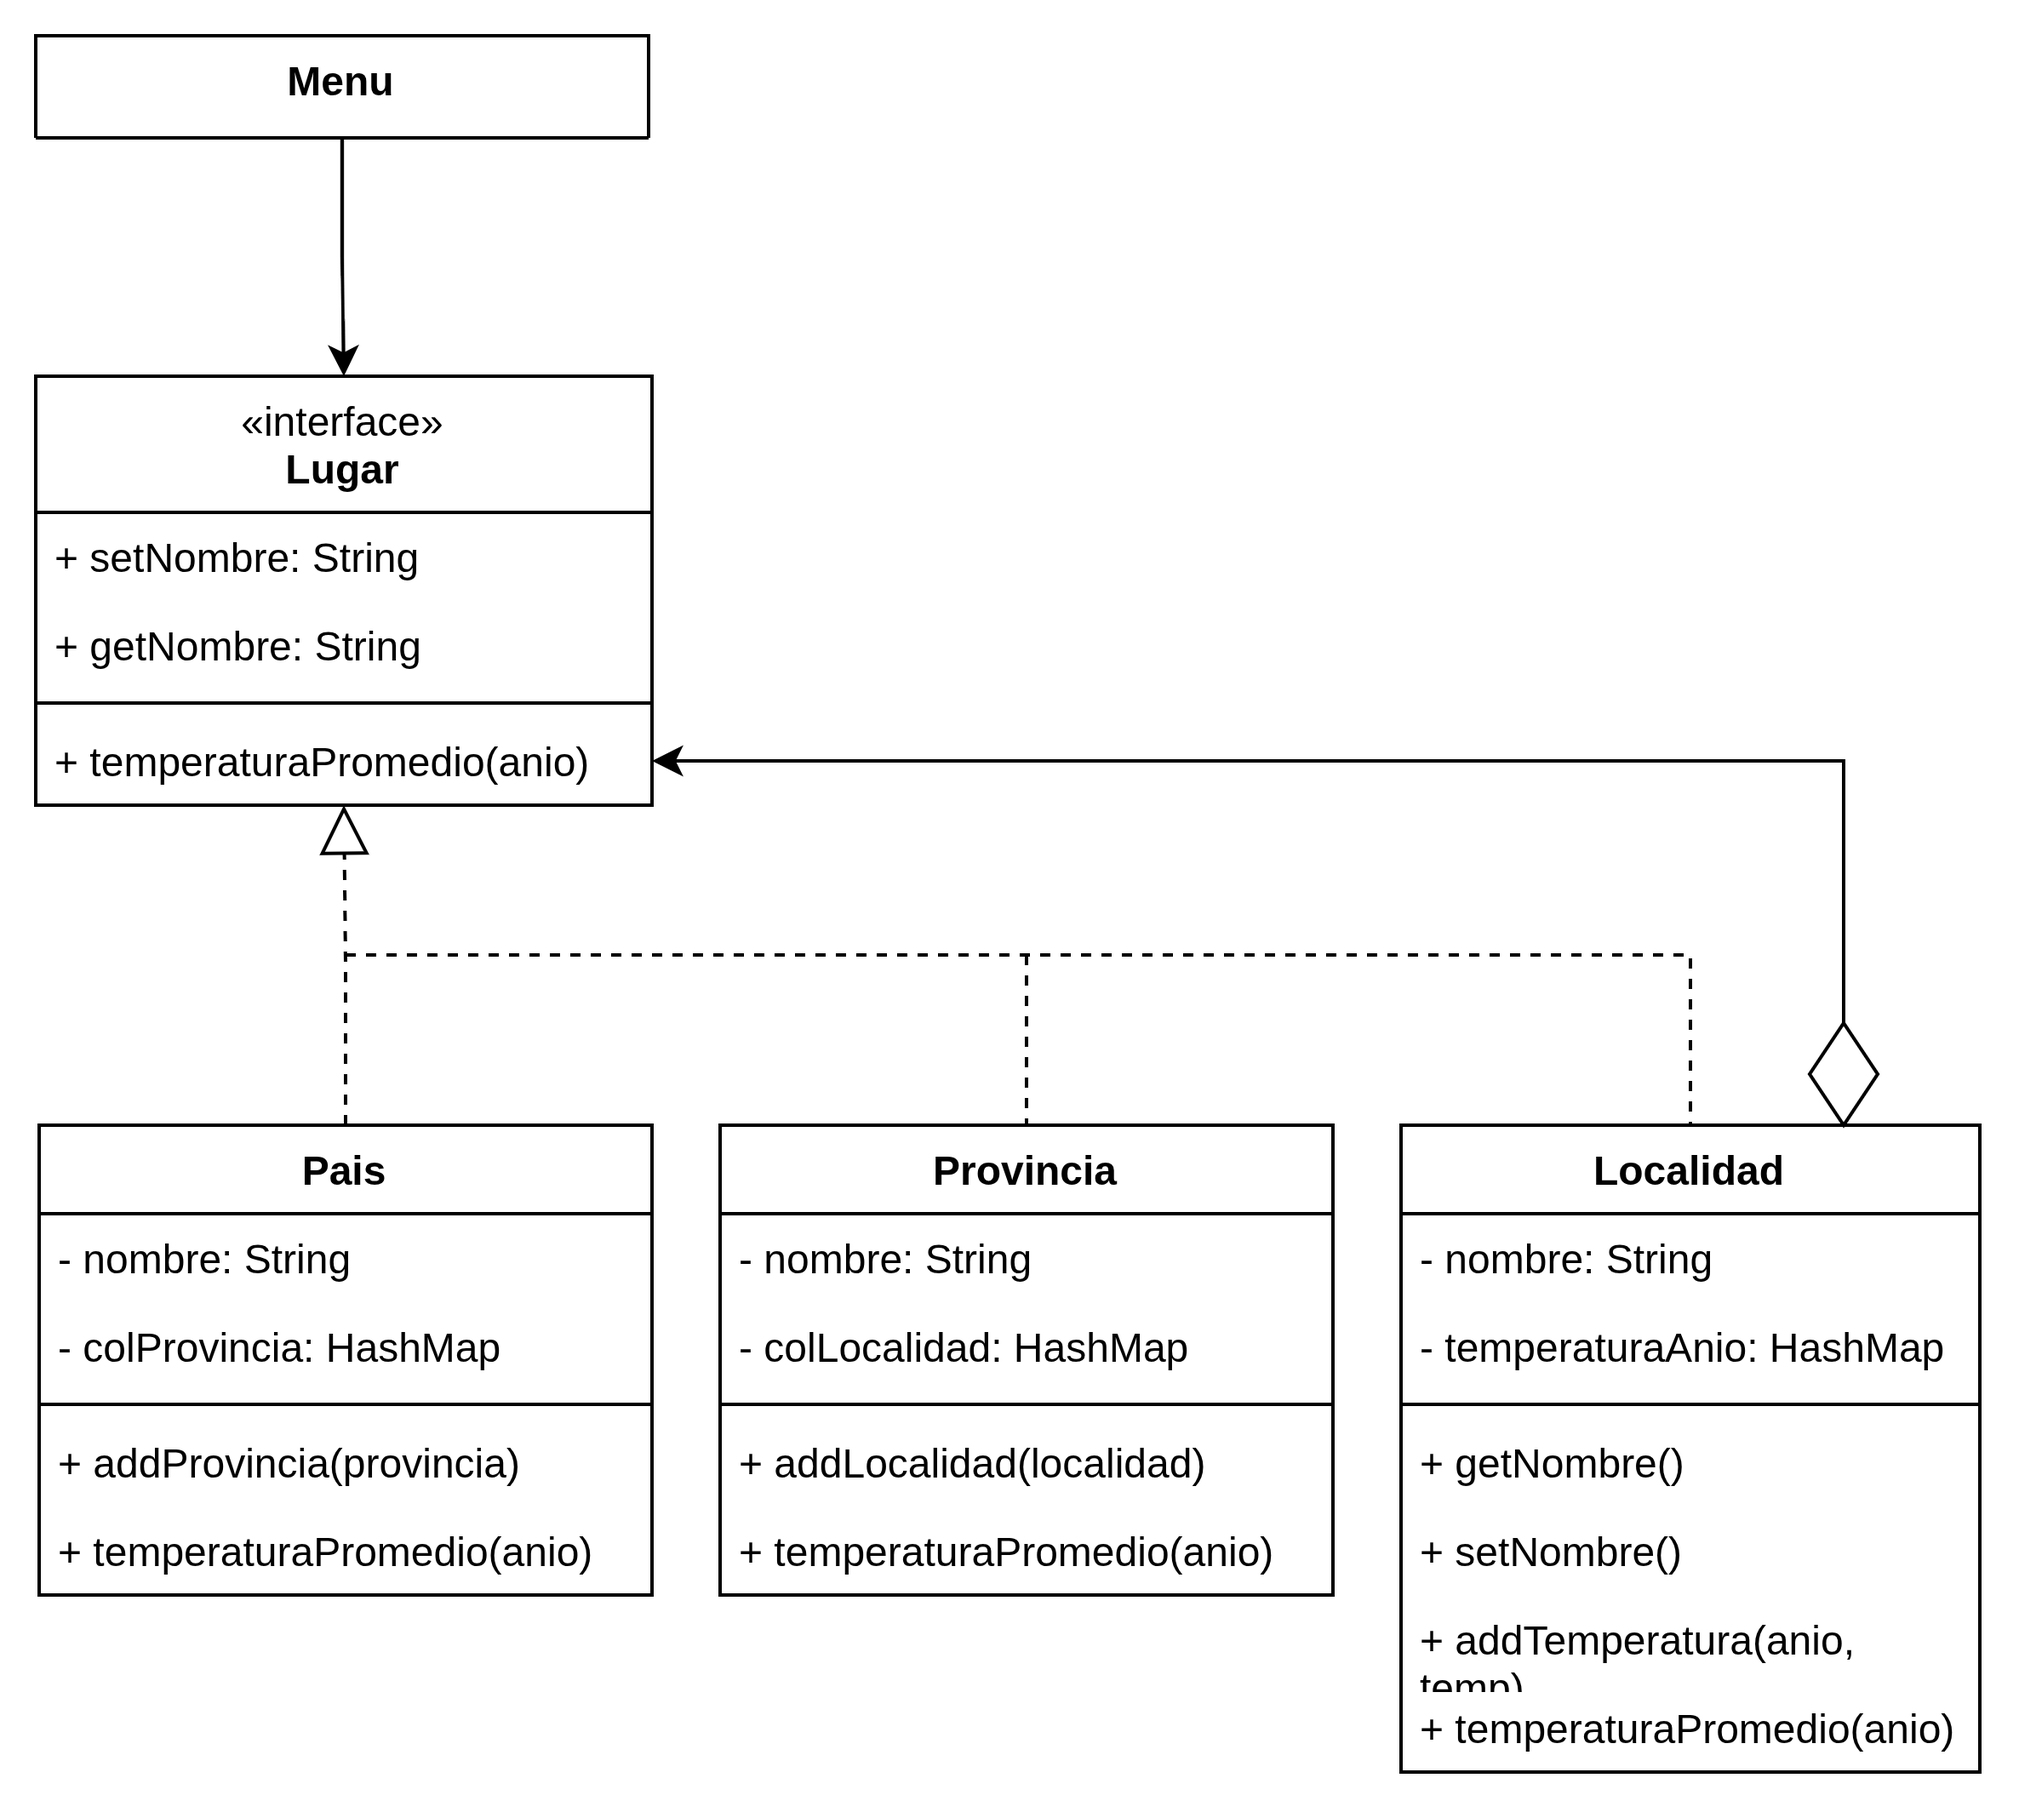
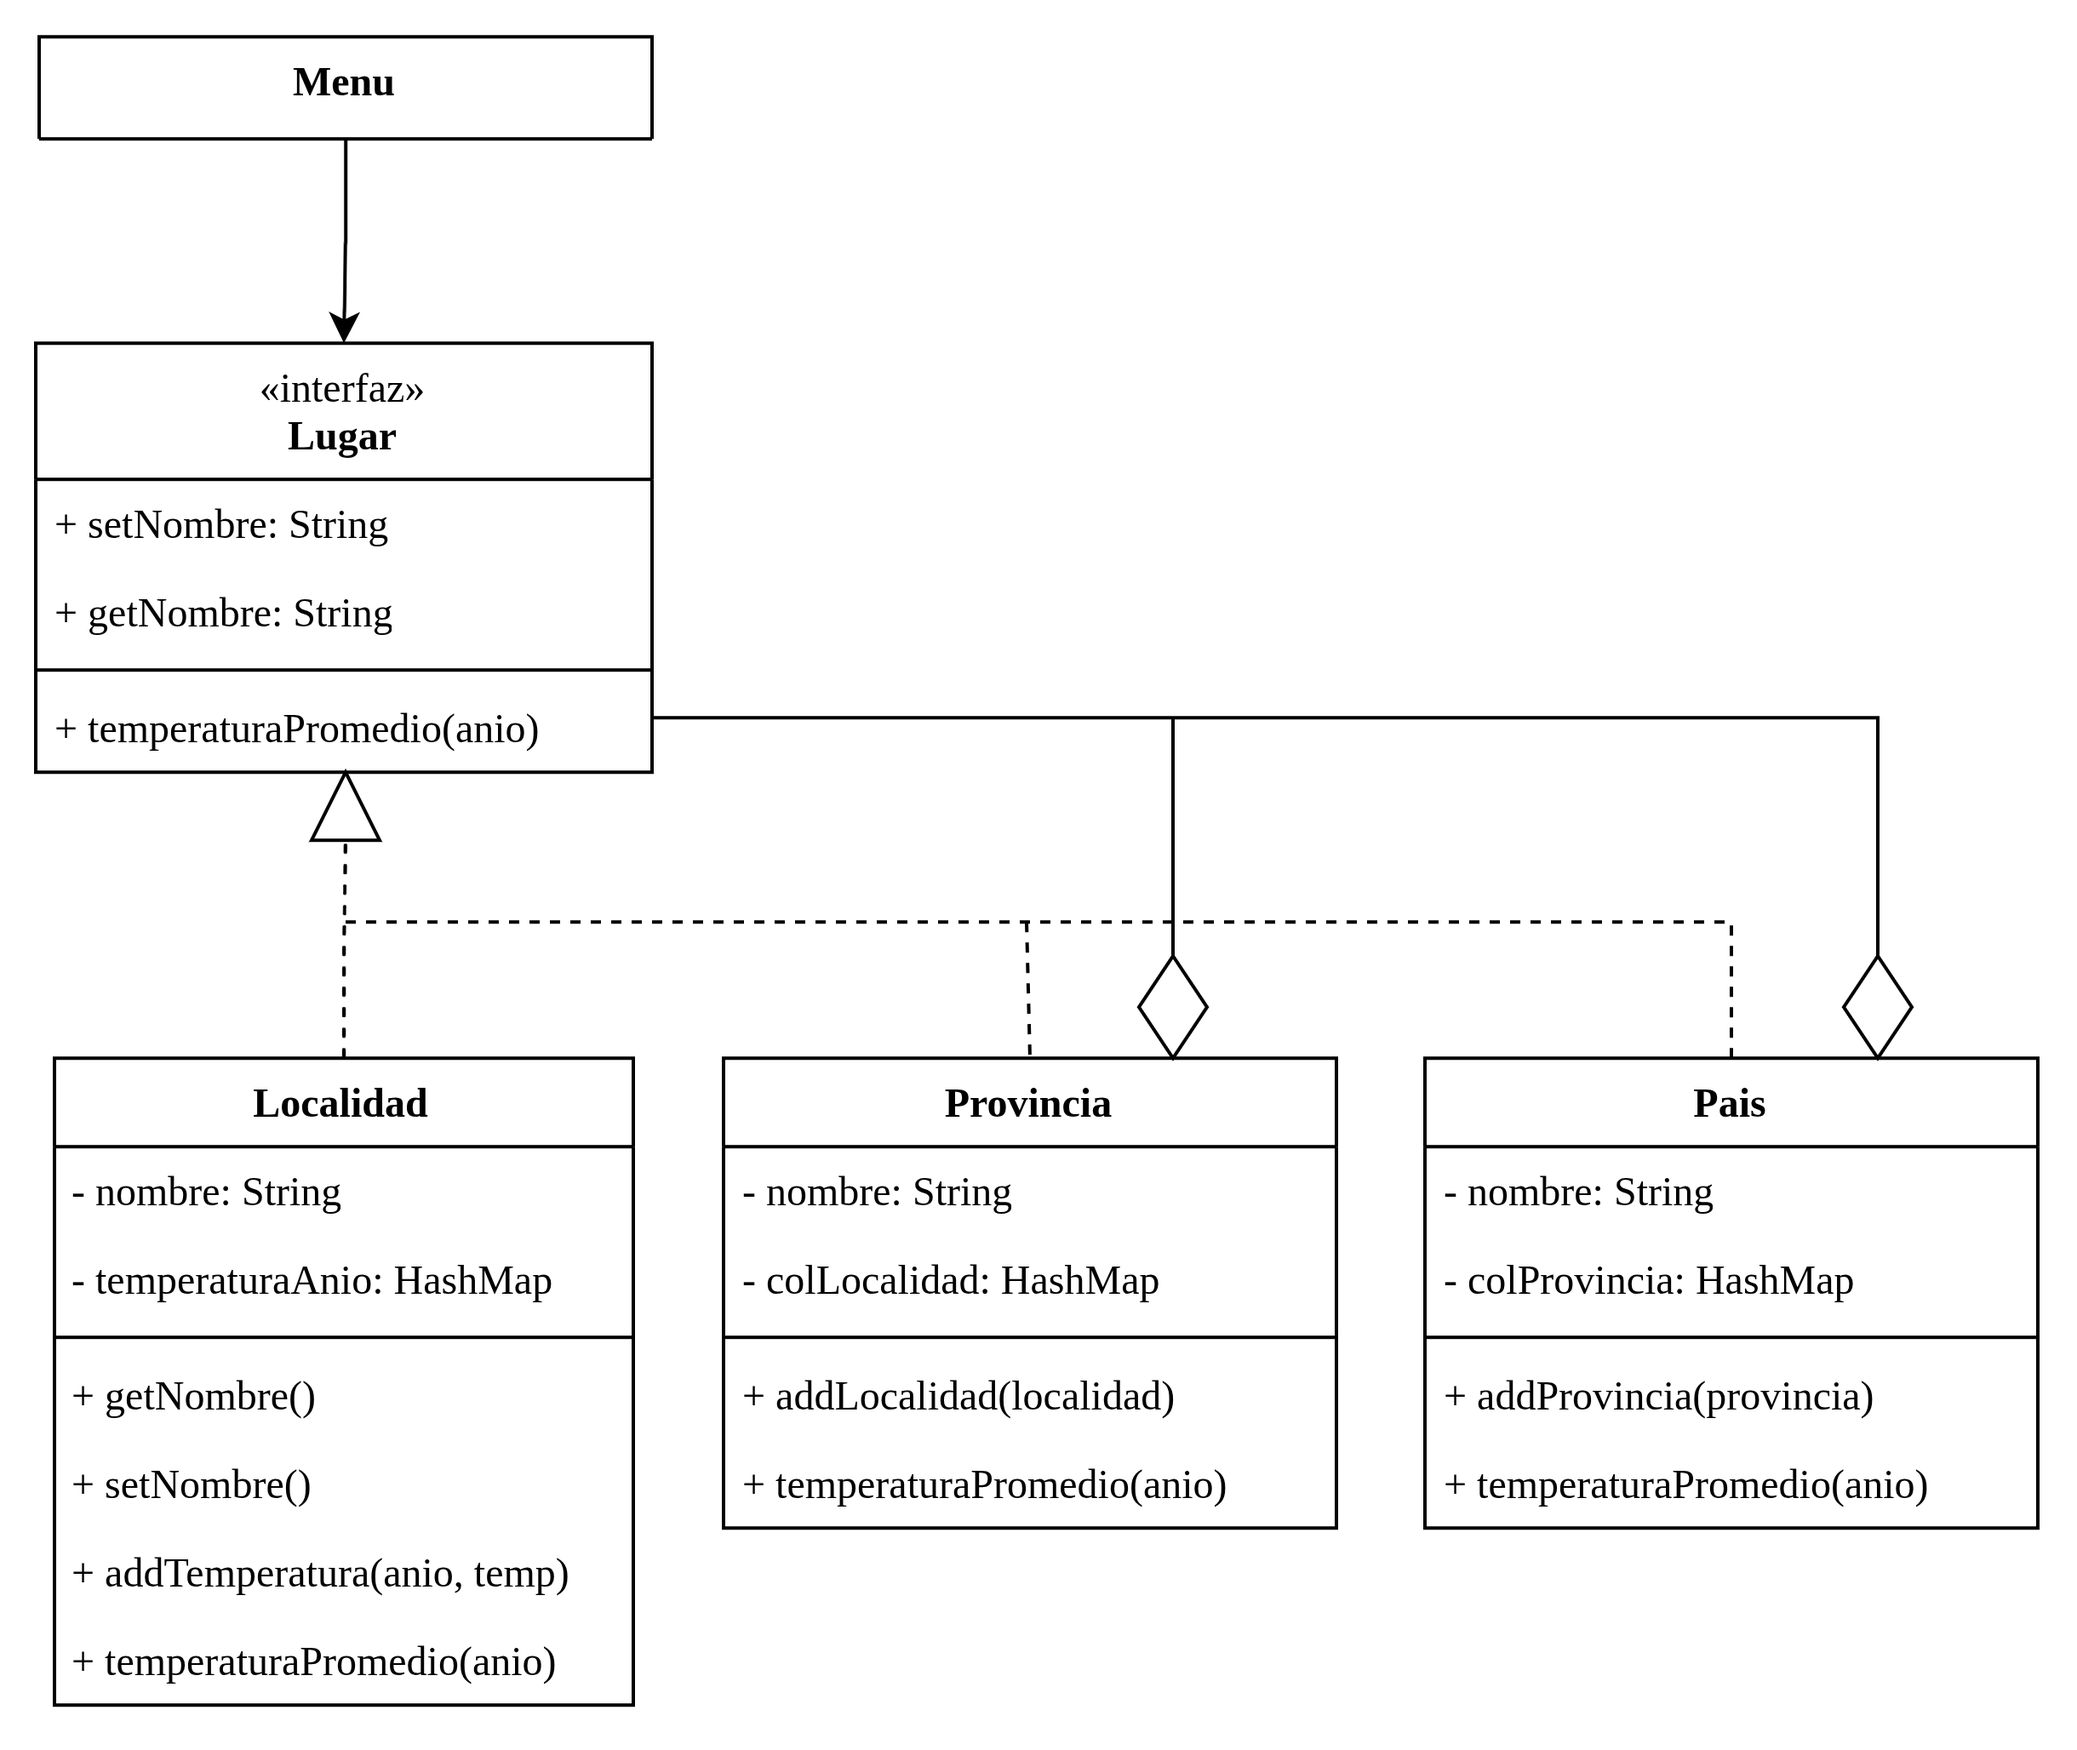
feat: casi terminando el informe

diff --git a/docs/informe/TPO 1 - Grupo 14.tex b/docs/informe/TPO 1 - Grupo 14.tex
@@ -41,32 +41,30 @@ El motivo principal para usar el Patrón Composite es que la estructura del
 dominio se representa mediante la forma de un árbol.
 
 Supongamos que el objetivo es calcular la temperatura promedio de un país. Este
-se compone de provincias, que a su vez contienen localidades, las cuales
+se compone de provincias, que a su vez contiene localidades, las cuales
 registran las temperaturas promedio anuales entre 2021 y 2026. Es decir, el país
 abarca provincias, las provincias abarcan localidades y las localidades guardan
-el historial de temperaturas.
+un historial de temperaturas.
 
 Ahora bien, supongamos que queremos desarrollar un sistema capaz de calcular la
-temperatura promedio de un año específico, ya sea para una provincia particular
+temperatura promedio de un año específico, ya sea para una provincia particular,
 o para un país entero.
 
 ¿De qué manera podríamos resolver este problema?
 
-\begin{figure}[h] \includegraphics[width=\textwidth]{treedark.png}
+\begin{figure}[h] \includegraphics[width=\textwidth]{arbol2.png}
 
 \end{figure}
 
 Podemos intentar la solución directa, fijarnos las localidades de cada provincia
-del país, repasar cada una de las temperaturas para un año determinado y
+del país, obtener cada una de las temperaturas para un año determinado y
 calcular el promedio total. En la vida real esto suena sencillo, pero en un
-programa no es tan simple como usar un solo bucle. Necesitaríamos conocer con
+programa no es tan simple como usar un único bucle. Necesitaríamos conocer con
 anticipación las clases Provincia y Localidad a iterar, el nivel de anidación
 que tienen y otros detalles. Todo esto hace que la opción directa se vuelva
-demasiado compleja.
-
+muy compleja de desarrollar.
 
 \subsection{Solución}
-
 
 El patrón Composite sugiere que trabajemos con Localidades, Provincias y el País a
 través de una interfaz común que declara un método para calcular la temperatura
@@ -75,21 +73,20 @@ total.
 ¿Cómo funcionaría este método? Para una localidad, sencillamente devuelve la
 temperatura promedio de la zona. Para una provincia, recorre cada localidad que
 abarca, pregunta su temperatura y devuelve la temperatura promedio anual de la
-provincia. Así hasta que se calcule el promedio anual de todas las provincias
-del país. Una provincia podría incluso añadir temperaturas adicionales a las
-temperaturas por localidad, como temperaturas.
+provincia. Así hasta calcular el promedio anual de todas las provincias del
+país. Una provincia podría incluso añadir temperaturas adicionales a las
+temperaturas por localidad como, por ejemplo, temperaturas de zonas que no sean
+localidades.
 
 El patrón Composite propone tratar a las Localidades, Provincias y al País
-mediante una interfaz común que declare un método para calcular la temperatura
-promedio.
+mediante una interfaz común que declare uno o varios métodos para calcular la
+temperatura promedio.
 
-¿Cómo funciona este método? En el caso de una localidad, simplemente devuelve
+¿Cómo funcionan estos método? En el caso de una localidad, simplemente devuelve
 una temperatura promedio anual de su registro. En una provincia, el método
 recorre cada localidad que la integra, consulta sus temperaturas y calcula el
 promedio anual de la provincia. El proceso se repite del mismo modo para el
-país, promediando los valores de todas sus provincias. Incluso, una provincia
-podría incorporar datos adicionales antes de devolver el resultado final, como
-mediciones de estaciones meteorológicas propias.
+país, promediando los valores de todas sus provincias.
 
 La gran ventaja de esta solución es que no hay que preocuparse por las clases
 concretas de los objetos que componen el árbol. No hay que saber si un objeto es
@@ -97,8 +94,70 @@ una localidad simple o una sofisticada provincia. Podemos tratar a todos los
 objetos por igual a través de una interfaz común. Cuando invocas un método, los
 propios objetos pasan la solicitud a lo largo del árbol.
 
+\subsection{Estructura}
+
 \begin{figure}[h] \includegraphics[width=\textwidth]{uml.png}
 
 \end{figure}
+
+La interfaz Componente "Lugar" describe las operaciones comunes tanto para
+elementos simples como complejos de la estructura. Define métodos como
+temperaturaPromedio(anio), asegurando que tanto las localidades como las
+provincias y el país compartan una misma forma de consultados.
+
+La hoja "Localidad" es el elemento básico del árbol que no contiene
+subelementos. Almacena de forma directa el registro de temperaturas anuales
+(temperaturaAnio) y realiza el trabajo real devolviendo el promedio
+correspondiente al año solicitado.
+
+El contenedor o compuesto "Provincia" y "Pais" son los elementos que contienen
+subelementos (hojas y otros componentes). Guardan colecciones de sus hijos
+(colLocalidad o colProvincia) y delegan en ellos la solicitud: al llamar a
+temperaturaPromedio(anio), consultan a cada uno de sus componentes hijos,
+procesan sus resultados y devuelven el promedio general.
+
+El cliente "Menu" trabaja con todos los elementos de la jerarquía exclusivamente
+a través de la interfaz Lugar. Esto le permite solicitar la temperatura promedio
+de un año específico de la misma manera, sin importar si interactúa con una
+localidad individual, una provincia o el país entero.
+
+País, Provincia y Localidad son los elementos básicos del árbol que no tienen
+subelementos.
+
+Normalmente, los componentes de las hojas acaban realizando la mayoría del
+trabajo real, ya que no tienen a nadie a quien delegarle el trabajo.
+
+\subsection{Execute Service}
+
+\textbf{ExecutorService} es una interfaz de Java que forma parte del
+\textbf{paquete java.util.concurrent.} Su función principal es gestionar de
+forma eficiente un grupo de hilos (pool) para ejecutar tareas concurrentes,
+evitando necesidad de crearlos y administrarlos manualmente uno por uno.
+
+La forma más sencilla de instanciarlo es mediante la clase de fábrica Executors:
+
+\textbf{newFixedThreadPool(int n)}: Crea un pool con un número fijo de
+hilos. Si todos los hilos están ocupados procesando una tarea, las nuevas
+solicitudes esperan en una cola de trabajo hasta que un hilo se libere.
+
+\textvf{execute(Runnable)}: Envía una tarea asíncrona para ser
+ejecutada por uno de los hilos disponibles sin bloquear el hilo principal.
+
+\subsubsection{Aplicación en nuestro dominio}
+
+En nuestra clase principal, a medida que se instancia cada objeto
+\textbf{Provincia}, se encola su lectura mediante la llamada:
+
+\textbf{pool.execute(new CargadorDatos(objetoProvincia))}
+
+Este método asigna la tarea \textbf{CargadorDatos} a un hilo libre del pool. El
+hilo ejecuta de manera asíncrona el método \textbf{run()}, leyendo el archivo
+CSV correspondiente en segundo plano de forma paralela a la carga de otras
+provincias.
+
+Finalmente, mediante \textbf{pool.shutdown()} y \textbf{pool.awaitTermination(4,
+TimeUnit.SECONDS)}, el programa detiene la recepción de nuevas tareas y espera
+un tiempo a que todos los hilos finalicen la lectura antes de continuar con la
+ejecución.
 
 \end{document}
